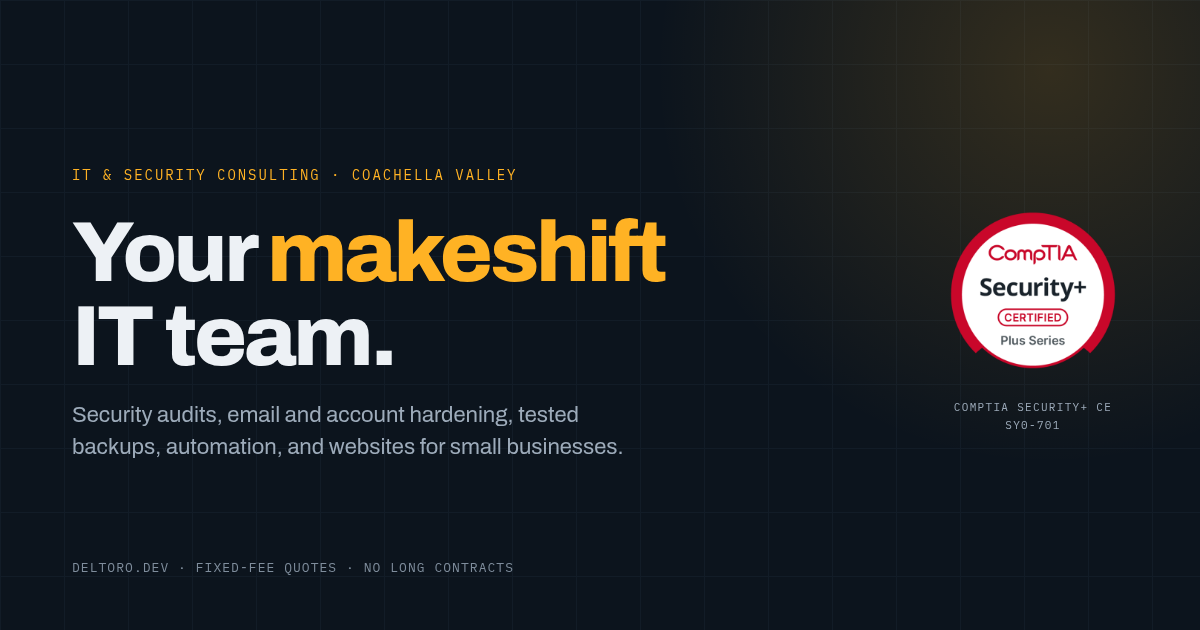
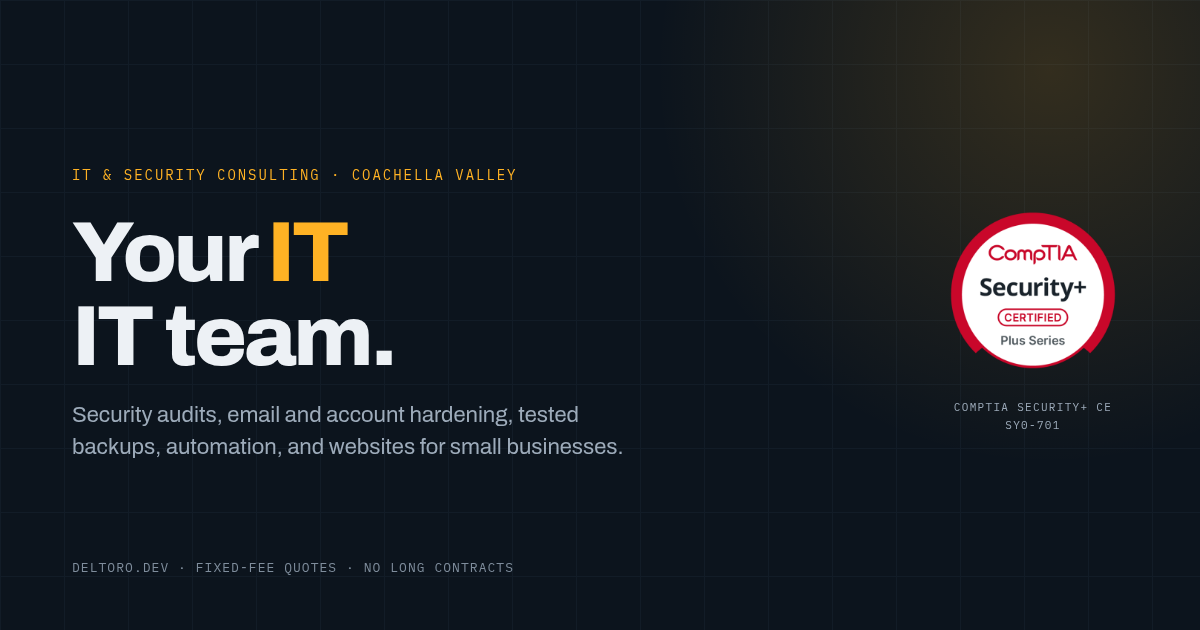
Use Your IT team positioning and document free email options

Changed region(s): [[0.2158, 0.3317, 0.555, 0.4524]]

diff --git a/src/data/site.ts b/src/data/site.ts
@@ -251,7 +251,7 @@ export const faqs = [
   },
   {
     q: 'We do not have an IT team. Can you still help?',
-    a: 'No IT team? No worries. Think of me as your temporary IT team to perform the improvements you are looking for. I handle the work, document what changed, and leave you with something you can hand to the next person. If you want ongoing coverage afterward, the care plan exists for exactly that.',
+    a: 'No IT team? No worries. Think of me as your IT team to perform the improvements you are looking for. I handle the work, document what changed, and leave you with something you can hand to the next person. If you want ongoing coverage afterward, the care plan exists for exactly that.',
   },
   {
     q: 'How does pricing actually work?',

diff --git a/src/pages/llms-full.txt.ts b/src/pages/llms-full.txt.ts
@@ -23,7 +23,7 @@ export const GET: APIRoute = async () => {
     '',
     'Andrew Del Toro is a solo IT and security consultant in the Coachella Valley. He works with small businesses (roughly 1–50 people) that have no IT department, or an IT team that is already stretched. Engagements are fixed-fee, quoted in writing after a free 20-minute call. Clients keep ownership of accounts, documentation, and repositories.',
     '',
-    'He works alongside existing IT teams when they exist, and acts as a makeshift IT team when they do not.',
+    'He works alongside existing IT teams when they exist, and acts as the IT team when they do not.',
     '',
     '## Services and prices',
     '',

diff --git a/docs/email-options.md b/docs/email-options.md
@@ -1,0 +1,83 @@
+# Professional email on deltoro.dev — free options
+
+## Short answer
+
+You do not need to buy another domain. You already own **deltoro.dev**. What costs money is the mailbox or the sending service, not the domain.
+
+For a free professional address, you have two practical routes:
+
+1. **Free forwarding** — Cloudflare Email Routing sends `hello@deltoro.dev` to your Gmail. Free, five-minute setup, but replies come from Gmail unless you add a sending service.
+2. **Free mailbox** — Zoho Mail Free gives you a real `hello@deltoro.dev` mailbox on the free plan: up to 5 users, one custom domain, 5 GB per user, web and mobile apps. No IMAP/POP/ActiveSync on the free plan, so you use Zoho's apps rather than Gmail.
+
+If you want the address to live inside Gmail (IMAP) and send/receive natively, the cheapest reliable option is a paid mailbox: Zoho Mail Lite (roughly $1–$2/user/month billed annually) or Google Workspace (about $7/user/month).
+
+## Option A — Cloudflare Email Routing (free forwarding)
+
+Your DNS is already on Cloudflare, so this is the simplest route.
+
+1. Open https://dash.cloudflare.com and select deltoro.dev.
+2. Go to **Email → Email Routing → Enable**.
+3. Add a destination address: `adeltoro702@gmail.com`. Verify it from the email Cloudflare sends.
+4. Add a custom address: `hello@deltoro.dev` → destination `adeltoro702@gmail.com`.
+5. Cloudflare adds the MX and SPF records automatically. Do not add a second MX provider at the same time.
+6. Send a test from an outside account to `hello@deltoro.dev`.
+
+Docs: https://developers.cloudflare.com/email-routing/
+
+Limits: this is **inbound forwarding only**. Cloudflare does not give you an SMTP login, so Gmail's “Send mail as” cannot use it directly. Replies will come from your Gmail address. That is fine for a first launch, but it is not a full branded mailbox.
+
+## Option B — Zoho Mail Free (free mailbox)
+
+This is the best zero-cost option if you want to send *and* receive as `hello@deltoro.dev` without Gmail send-as gymnastics.
+
+- Free forever, up to 5 users.
+- One custom domain.
+- 5 GB storage per user.
+- Webmail and mobile app.
+- **No IMAP/POP/ActiveSync** on the free plan, so you cannot connect it to the Gmail app or Apple Mail; use Zoho's own app/webmail.
+
+Setup:
+
+1. Sign up at https://www.zoho.com/mail/ and choose the free plan.
+2. Add deltoro.dev and verify it with the TXT record Zoho gives you.
+3. Create `hello@deltoro.dev`.
+4. Replace the Cloudflare Email Routing MX records with Zoho's MX records, and add Zoho's SPF and DKIM records.
+5. Send and receive a test from outside.
+
+Pricing and plan details: https://www.zoho.com/mail/zohomail-pricing.html
+
+Do not run Cloudflare Email Routing and Zoho MX at the same time. Pick one inbound provider.
+
+## Option C — Paid mailbox for Gmail/IMAP
+
+If you want `hello@deltoro.dev` inside Gmail, Apple Mail, or Outlook with normal IMAP sync:
+
+- **Zoho Mail Lite** — roughly $1–$2/user/month billed annually. Cheapest full mailbox with IMAP.
+- **Google Workspace** — about $7/user/month. Best if you want Gmail's interface, calendar, and Drive under the domain.
+- **Microsoft 365 Business Basic** — comparable to Google Workspace if you prefer Outlook.
+
+These are the only options that give you a normal mailbox experience with the domain in the From line and full sync.
+
+## Option D — ImprovMX (free forwarding alternative)
+
+If you ever move DNS off Cloudflare, ImprovMX offers free forwarding: one domain, 25 aliases, 500 forwarded emails/day. SMTP sending is paid. https://improvemx.com/pricing/
+
+## Recommendation
+
+For your situation, I would do this:
+
+1. **Start with Cloudflare Email Routing** today. It is free, takes minutes, and stops you from losing leads to a Gmail address. Reply from Gmail for now.
+2. If the Gmail From line bothers you after the first few clients, move to **Zoho Mail Free** and use Zoho's app. Still $0.
+3. Pay only when you want the address inside Gmail or Apple Mail: Zoho Lite first, Google Workspace if you want the full Google ecosystem.
+
+## Switching the website over
+
+Once `hello@deltoro.dev` receives a test message, change it in one place:
+
+- `email` in `src/data/site.ts`
+- the address in `public/llms.txt`
+- the address in `public/.well-known/security.txt`
+
+Then rebuild and deploy. The contact form, footer, card page, and structured data all read from the same config.
+
+Until the mailbox is tested, the site keeps `adeltoro702@gmail.com`. A displayed address that cannot receive mail loses leads.

diff --git a/docs/business-assessment.md b/docs/business-assessment.md
@@ -10,7 +10,7 @@
 
 The idea is viable, but it is not the business the old site was describing.
 
-The old site said: *"I'm looking for an entry-level IT or security role."* That is a job-search page. It asks a hiring manager to take a chance on you. The new site says: *"Your makeshift IT team."* That is a business page. It asks an owner with a problem to buy a defined outcome.
+The old site said: *"I'm looking for an entry-level IT or security role."* That is a job-search page. It asks a hiring manager to take a chance on you. The new site says: *"Your IT team."* That is a business page. It asks an owner with a problem to buy a defined outcome.
 
 Those are different products, different buyers, and different pricing. The rebuild makes the second one real. The remaining work is not web design — it is proof, process, and protection:
 
@@ -170,7 +170,7 @@ Those are the five things to acquire in the first 90 days. The website has a pla
 
 ### What the new site does well
 
-- **One clear promise above the fold:** "Your makeshift IT team." It is memorable and it explains the engagement model.
+- **One clear promise above the fold:** "Your IT team." It is memorable and it explains the engagement model.
 - **Pricing is visible.** Most competitors hide it. Visible starting prices build trust and filter unqualified leads.
 - **Proof is clickable.** Twelve case studies, live demos, and screenshots. The PySIEM demo in the hero is a strong first impression for a technical buyer.
 - **The required language is present verbatim** in the team section, and repeated in context on the services page.
@@ -292,7 +292,7 @@ Track these weekly in a spreadsheet. Ignore page views.
 | Old site | New site |
 | --- | --- |
 | "Security Analyst & Builder" | "IT & Security Consulting" |
-| "I'm looking for an entry-level role" | "Your makeshift IT team" |
+| "I'm looking for an entry-level role" | "Your IT team" |
 | Eight project cards with one-line descriptions | Twelve case studies with problem, build, outcome, and "what this proves" |
 | No pricing | Seven offers with starting prices, hourly, add-ons, and payment terms |
 | Email + LinkedIn only | Contact form, booking-ready, free checkup, response promise |

diff --git a/README.md b/README.md
@@ -255,4 +255,5 @@ See `docs/launch-checklist.md` and `docs/business-assessment.md`. The short list
 - [How the Brave session was used](docs/how-the-brave-session-was-used.md) — the local session-reuse method and its security lessons.
 - [V1CE card resolution](docs/v1ce-card.md) — how the printed QR and NFC tap were re-pointed.
 - [Insurance and contracts](docs/insurance-and-contracts.md) — E&O, cyber, MSA, and SOW.
+- [Email options](docs/email-options.md) — free forwarding and mailbox choices for deltoro.dev.
 - [Deploy walkthrough](docs/deploy-walkthrough.md) — GitHub Pages troubleshooting.
